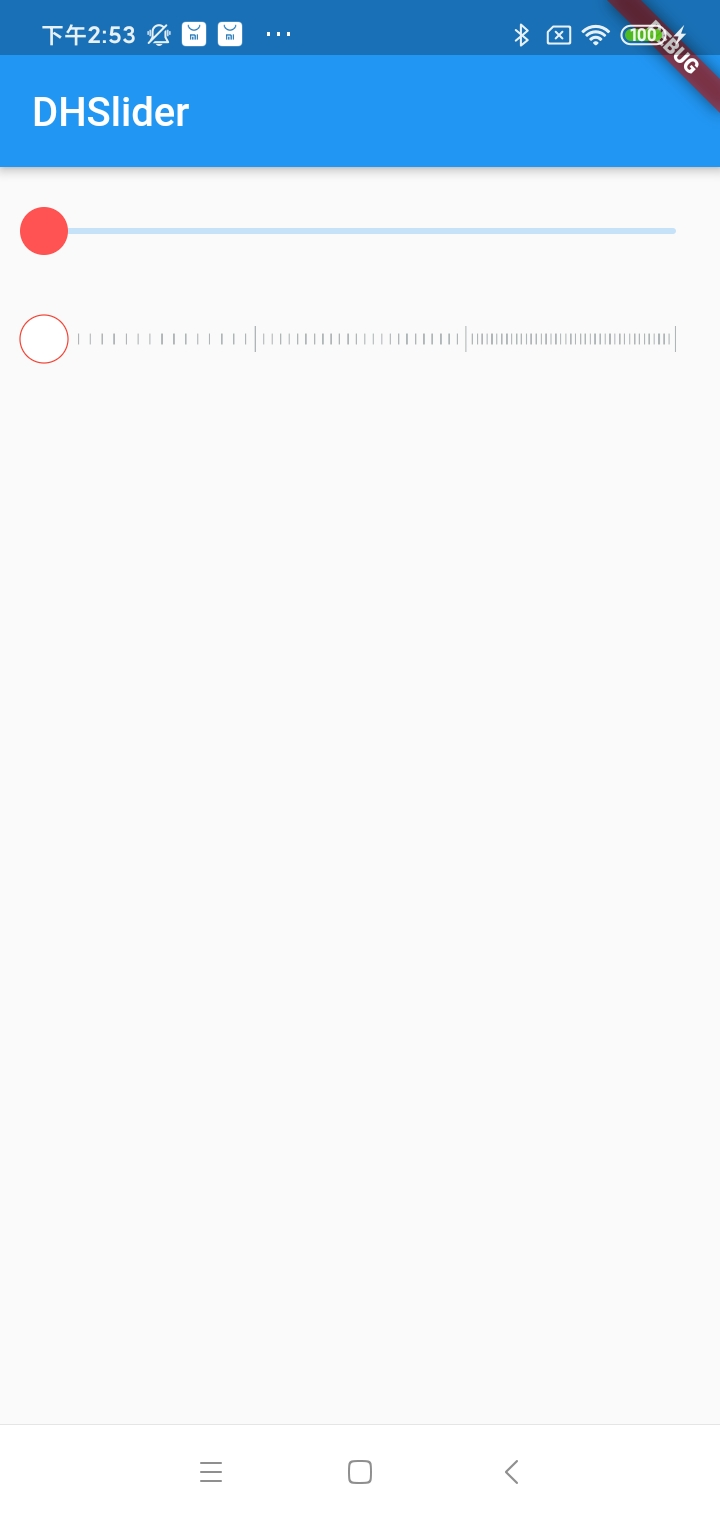
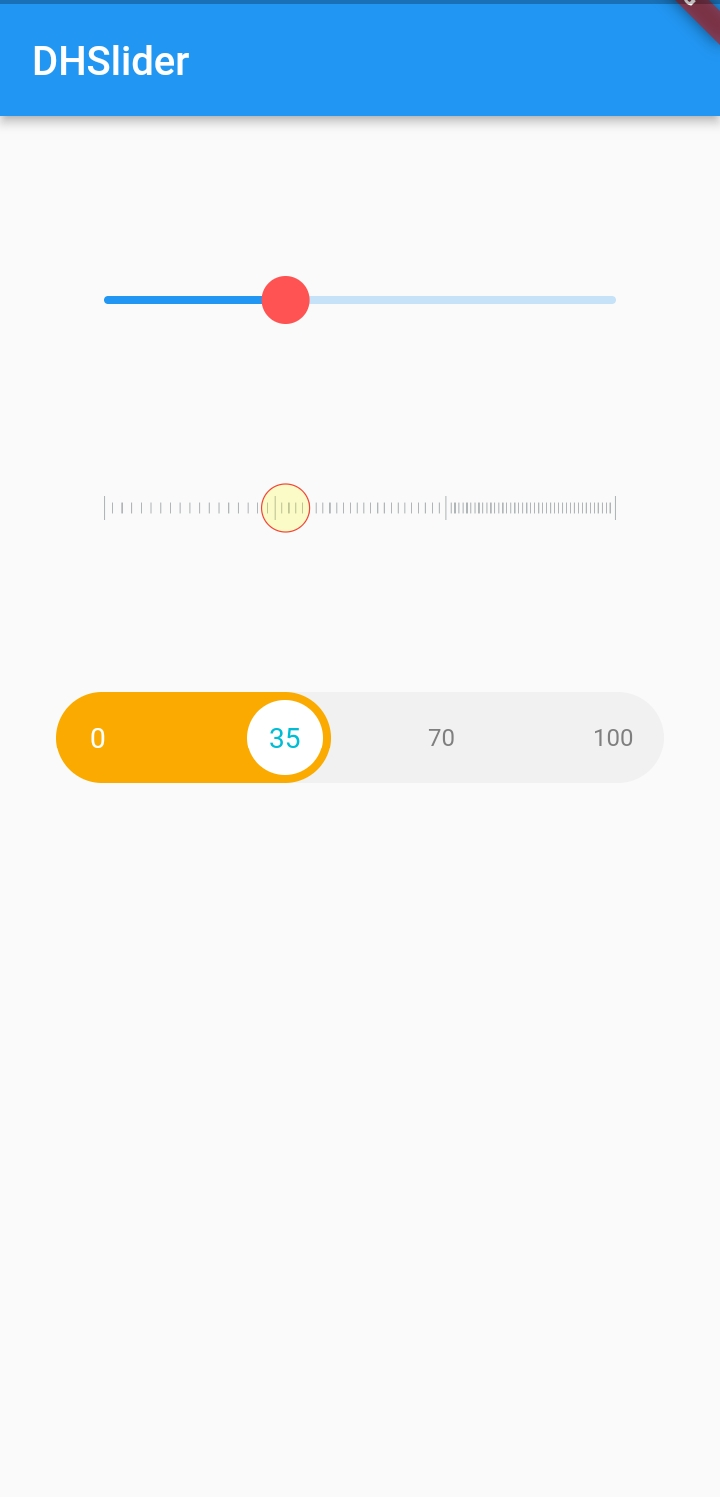
* * *slider添加刻度标记，thumb显示当前值

diff --git a/lib/src/shapes.dart b/lib/src/shapes.dart
@@ -11,10 +11,37 @@ import 'indicator.dart';
 
 /// 自定义Track
 class DHSliderTrackShape extends SliderTrackShape {
+  /// track背景图片[image]
   final ui.Image? image;
-  final bool padTrack;
 
-  const DHSliderTrackShape({this.image, this.padTrack = true});
+  /// track是否左对齐thumb中心
+  /// true track左对齐thumb中心
+  /// false track左对齐thumb左
+  final bool alignThumbCenter;
+
+  final List<String>? marks;
+
+  /// 可用状态左侧mark样式
+  final TextStyle? activeMarkStyle;
+
+  /// 可用状态右侧mark样式
+  final TextStyle? inactiveMarkStyle;
+
+  /// 不可用状态左侧mark样式
+  final TextStyle? disabledActiveMarkStyle;
+
+  /// 不可用状态右侧mark样式
+  final TextStyle? disabledInactiveMarkStyle;
+
+  const DHSliderTrackShape({
+    this.image,
+    this.alignThumbCenter = true,
+    this.marks,
+    this.activeMarkStyle,
+    this.inactiveMarkStyle,
+    this.disabledActiveMarkStyle,
+    this.disabledInactiveMarkStyle,
+  }) : assert(marks == null || marks.length > 1);
 
   @override
   Rect getPreferredRect({
@@ -46,6 +73,14 @@ class DHSliderTrackShape extends SliderTrackShape {
     bool isDiscrete = false,
     bool isEnabled = false,
   }) {
+    final Rect trackRect = getPreferredRect(
+      parentBox: parentBox,
+      offset: offset,
+      sliderTheme: sliderTheme,
+      isEnabled: isEnabled,
+      isDiscrete: isDiscrete,
+    );
+
     if (image == null) {
       // 绘制背景不使用图片
       if (sliderTheme.trackHeight == null || sliderTheme.trackHeight! <= 0) {
@@ -77,16 +112,8 @@ class DHSliderTrackShape extends SliderTrackShape {
           break;
       }
 
-      final Rect trackRect = getPreferredRect(
-        parentBox: parentBox,
-        offset: offset,
-        sliderTheme: sliderTheme,
-        isEnabled: isEnabled,
-        isDiscrete: isDiscrete,
-      );
-
       final leftTrackArcRect = Rect.fromLTWH(
-          trackRect.left - (padTrack ? 0 : trackRect.height / 2),
+          trackRect.left - (alignThumbCenter ? 0 : trackRect.height / 2),
           trackRect.top,
           trackRect.height,
           trackRect.height);
@@ -105,7 +132,7 @@ class DHSliderTrackShape extends SliderTrackShape {
 
       final Rect rightTrackArcRect = Rect.fromLTWH(
           trackRect.right -
-              (padTrack ? trackRect.height : trackRect.height / 2),
+              (alignThumbCenter ? trackRect.height : trackRect.height / 2),
           trackRect.top,
           trackRect.height,
           trackRect.height);
@@ -123,18 +150,10 @@ class DHSliderTrackShape extends SliderTrackShape {
       if (!rightTrackSegment.isEmpty)
         context.canvas.drawRect(rightTrackSegment, rightTrackPaint);
     } else {
-      final Rect trackRect = getPreferredRect(
-        parentBox: parentBox,
-        offset: offset,
-        sliderTheme: sliderTheme,
-        isEnabled: isEnabled,
-        isDiscrete: isDiscrete,
-      );
-
       final Rect src = Rect.fromLTRB(
           0, 0, image!.width.toDouble(), image!.height.toDouble());
       Rect dst = trackRect;
-      if (!padTrack) {
+      if (!alignThumbCenter) {
         final double thumbSize = sliderTheme.thumbShape!
             .getPreferredSize(isEnabled, isDiscrete)
             .width;
@@ -146,6 +165,29 @@ class DHSliderTrackShape extends SliderTrackShape {
         context.canvas
             .drawImageRect(image!, src, dst, Paint()..isAntiAlias = true);
     }
+
+    if (marks != null && marks!.isNotEmpty) {
+      final markPainter = TextPainter(textDirection: textDirection);
+      final length = marks!.length;
+      double width = trackRect.width / (length - 1);
+      for (int i = 0; i < length; i++) {
+        // 偏差4ui效果更好些
+        var x = width * i + trackRect.height / 2 - 4;
+        var markStyle;
+        if (x <= thumbCenter.dx) {
+          markStyle = isEnabled ? activeMarkStyle : disabledActiveMarkStyle;
+        } else {
+          markStyle = isEnabled ? inactiveMarkStyle : disabledInactiveMarkStyle;
+        }
+        markPainter
+          ..text = TextSpan(text: marks?[i], style: markStyle)
+          ..layout();
+        markPainter.paint(
+            context.canvas,
+            Offset(x - markPainter.width / 2,
+                thumbCenter.dy - markPainter.height / 2));
+      }
+    }
   }
 }
 
@@ -155,12 +197,16 @@ class DHThumbShape extends SliderComponentShape {
   final double _disabledThumbRadius;
   final ui.Image? image;
   final BorderSide borderSide;
+  final String? label;
+  final TextStyle? labelStyle;
 
   const DHThumbShape({
     required this.borderSide,
+    this.image,
+    this.label,
+    this.labelStyle,
     this.enabledThumbRadius = 10.0,
     double? disabledThumbRadius,
-    this.image,
   }) : _disabledThumbRadius = disabledThumbRadius ?? enabledThumbRadius;
 
   @override
@@ -184,10 +230,6 @@ class DHThumbShape extends SliderComponentShape {
     required double textScaleFactor,
     required Size sizeWithOverflow,
   }) {
-    assert(context != null);
-    assert(center != null);
-    assert(enableAnimation != null);
-    assert(sliderTheme != null);
     final Tween<double> radiusTween = Tween<double>(
       begin: _disabledThumbRadius,
       end: enabledThumbRadius,
@@ -219,11 +261,23 @@ class DHThumbShape extends SliderComponentShape {
               ..strokeWidth = borderSide.width);
       }
     } else {
+      // thumb use image
       Rect dst = Rect.fromCircle(center: center, radius: radius);
       Rect src = Rect.fromLTRB(
           0, 0, image!.width.toDouble(), image!.height.toDouble());
       context.canvas
           .drawImageRect(image!, src, dst, Paint()..isAntiAlias = true);
+    }
+    // draw a label in the center of the thumb
+    if (label != null) {
+      final painter = TextPainter(
+          textDirection: textDirection,
+          text: TextSpan(text: label, style: labelStyle))
+        ..layout();
+      painter.paint(
+          context.canvas,
+          Offset(
+              center.dx - painter.width / 2, center.dy - painter.height / 2));
     }
   }
 }

diff --git a/example/lib/main.dart b/example/lib/main.dart
@@ -46,11 +46,28 @@ class _SliderPageState extends State<SliderPage> {
 
   @override
   Widget build(BuildContext context) {
-    var dhSlider = DHSlider(
+    return Scaffold(
+      appBar: AppBar(
+        title: Text(widget.title),
+      ),
+      body: ListView(
+        padding: EdgeInsets.symmetric(horizontal: 30),
+        children: <Widget>[
+          _getIndicatorSlider(),
+          _getTrackImageSlider(),
+          _getCustomSlider(),
+        ],
+      ),
+    );
+  }
+
+  /// thumb显示气泡指示器样式
+  Widget _getIndicatorSlider() {
+    return DHSlider(
         thumbBorderSide: BorderSide.none,
         thumbColor: Colors.redAccent,
-        trackHeight: 46,
-        margin: EdgeInsets.only(left: 10, right: 10, top: 20),
+        trackHeight: 4,
+        margin: EdgeInsets.only(left: 10, right: 10, top: 80),
         value: slider,
         label: "$slider",
         indicator: Indicator(rectRadius: 10, labelPadding: 18),
@@ -67,26 +84,23 @@ class _SliderPageState extends State<SliderPage> {
             slider = value;
           });
         },
-        onChangeStart: (double value) {
-          this.setState(() {
-            slider = value;
-          });
-          print("onChangeStart: $value");
-        },
         onChanged: (double value) {
           this.setState(() {
             slider = value;
           });
           print("onChanged: $value");
         });
+  }
 
-    Widget fbSlider = FutureBuilder(
+  /// track 是图片背景样式
+  Widget _getTrackImageSlider() {
+    return FutureBuilder(
       future: sliderFuture,
       builder: (BuildContext context, AsyncSnapshot<ui.Image> snapshot) {
         return DHSlider(
           value: slider,
           trackHeight: 12,
-          trackShape: DHSliderTrackShape(image: snapshot.data, padTrack: false),
+          trackShape: DHSliderTrackShape(image: snapshot.data),
           activeTrackColor: Colors.transparent,
           inactiveTrackColor: Colors.transparent,
           disabledActiveTrackColor: Colors.transparent,
@@ -94,17 +108,13 @@ class _SliderPageState extends State<SliderPage> {
           thumbColor: Colors.yellowAccent.withOpacity(0.2),
           disabledThumbColor: Colors.white,
           enabledThumbRadius: 12,
-          margin: EdgeInsets.only(left: 10, right: 10, top: 30),
+          margin: EdgeInsets.only(left: 10, right: 10, top: 80),
           thumbBorderSide: BorderSide(
             width: 0.6,
             color: Colors.red,
           ),
           onChanged: (value) {
             print("onChange: $value");
-            this.setState(() => slider = value);
-          },
-          onChangeStart: (value) {
-            print("onChangeStart: $value");
             this.setState(() => slider = value);
           },
           onChangeEnd: (value) {
@@ -116,22 +126,32 @@ class _SliderPageState extends State<SliderPage> {
         );
       },
     );
+  }
 
-    Widget spaceSlider = DHSlider(
+  /// 自定义样式
+  Widget _getCustomSlider() {
+    return DHSlider(
+      margin: const EdgeInsets.only(top: 80),
       value: slider,
       trackHeight: 46,
-      thumbBorderSide: BorderSide(width: 4, color: Color(0xFF31C2A6)),
-      activeTrackColor: Color(0x8031C2A6),
-      inactiveTrackColor: Color(0xFFF70000),
-      thumbColor: Colors.yellowAccent.withOpacity(0.2),
-      disabledThumbColor: Colors.transparent,
-      backgroundColor: Colors.transparent,
-      enabledThumbRadius: 21,
-      trackShape: DHSliderTrackShape(padTrack: false),
+      activeTrackColor: Color(0xFFFAAA00),
+      inactiveTrackColor: Color(0xFFF1F1F1),
+      thumbColor: Colors.white,
+      disabledThumbColor: Colors.yellow,
+      thumbShape: DHThumbShape(
+          borderSide: BorderSide(width: 4, color: Color(0xFFFAAA00)),
+          label: "${(slider * 100).toInt()}",
+          enabledThumbRadius: 21,
+          labelStyle: TextStyle(color: Colors.cyan, fontSize: 14)),
+      trackShape: DHSliderTrackShape(
+        alignThumbCenter: false,
+        marks: ['0', '35', '70', '100'],
+        activeMarkStyle: TextStyle(color: Colors.white, fontSize: 14),
+        inactiveMarkStyle: TextStyle(color: Color(0xFF7F7F7F), fontSize: 12),
+        disabledActiveMarkStyle: TextStyle(color: Colors.red, fontSize: 14),
+        disabledInactiveMarkStyle: TextStyle(color: Colors.brown, fontSize: 12),
+      ),
       onChanged: (value) {
-        this.setState(() => slider = value);
-      },
-      onChangeStart: (value) {
         this.setState(() => slider = value);
       },
       onChangeEnd: (value) {
@@ -139,21 +159,6 @@ class _SliderPageState extends State<SliderPage> {
       },
       min: 0.0,
       max: 1.0,
-    );
-
-    return Scaffold(
-      appBar: AppBar(
-        title: Text(widget.title),
-      ),
-      body: ListView(
-        padding: EdgeInsets.symmetric(horizontal: 30),
-        children: <Widget>[
-          dhSlider,
-          fbSlider,
-          SizedBox(height: 20),
-          spaceSlider,
-        ],
-      ),
     );
   }
 

diff --git a/README.md b/README.md
@@ -1,6 +1,10 @@
-# dh_slider[![dh_slider](https://img.shields.io/badge/pub-0.0.5-brightgreen.svg)](https://pub.dev/packages/dh_slider)
+# dh_slider[![dh_slider](https://img.shields.io/badge/pub-1.0.1-brightgreen.svg)](https://pub.dev/packages/dh_slider)
 
 A handy slider that supports color and image settings for thumb and track.
+
+
+
+<img src="./images/screen_shot.jpg" width="40%">
 
 
 
@@ -16,7 +20,6 @@ import 'package:dh_slider/dh_slider.dart';
 
 ```
 DHSlider(
-    inScroll: true,
     thumbBorderSide: BorderSide.none,
     thumbColor: Colors.redAccent,
     trackHeight: 3,
@@ -62,6 +65,29 @@ FutureBuilder(
 
 To use image settings for track and thumb, use `DHSlider.image`.
 
+- Add mark for slider
 
+```
+DHSliderTrackShape(
+  alignThumbCenter: false,
+  marks: ['0', '35', '70', '100'],
+  activeMarkStyle: TextStyle(color: Colors.white, fontSize: 14),
+  inactiveMarkStyle: TextStyle(color: Color(0xFF7F7F7F), fontSize: 12),
+  disabledActiveMarkStyle: TextStyle(color: Colors.red, fontSize: 14),
+  disabledInactiveMarkStyle: TextStyle(color: Colors.brown, fontSize: 12),
+)
+```
 
-<img src="./images/screen_shot.jpg" width="40%">
+Customize `trackShape` parameters, set `marks` and `markStyle`.
+
+- Add text for thumb
+
+```
+DHThumbShape(
+    borderSide: BorderSide(width: 4, color: Color(0xFFFAAA00)),
+    label: "value",
+    enabledThumbRadius: 21,
+    labelStyle: TextStyle(color: Colors.cyan, fontSize: 14))
+```
+
+Customize `thumbShape` parameters, set `label` and `labelStyle`.

diff --git a/CHANGELOG.md b/CHANGELOG.md
@@ -1,3 +1,7 @@
+## [1.0.1] - 2022.12.21
+
+- Add marks for the slider, and the thumb shows the current value
+
 ## [1.0.0] - 2021.08.18
 
 - Added `padTrack` to adjust the position of thumb and track
